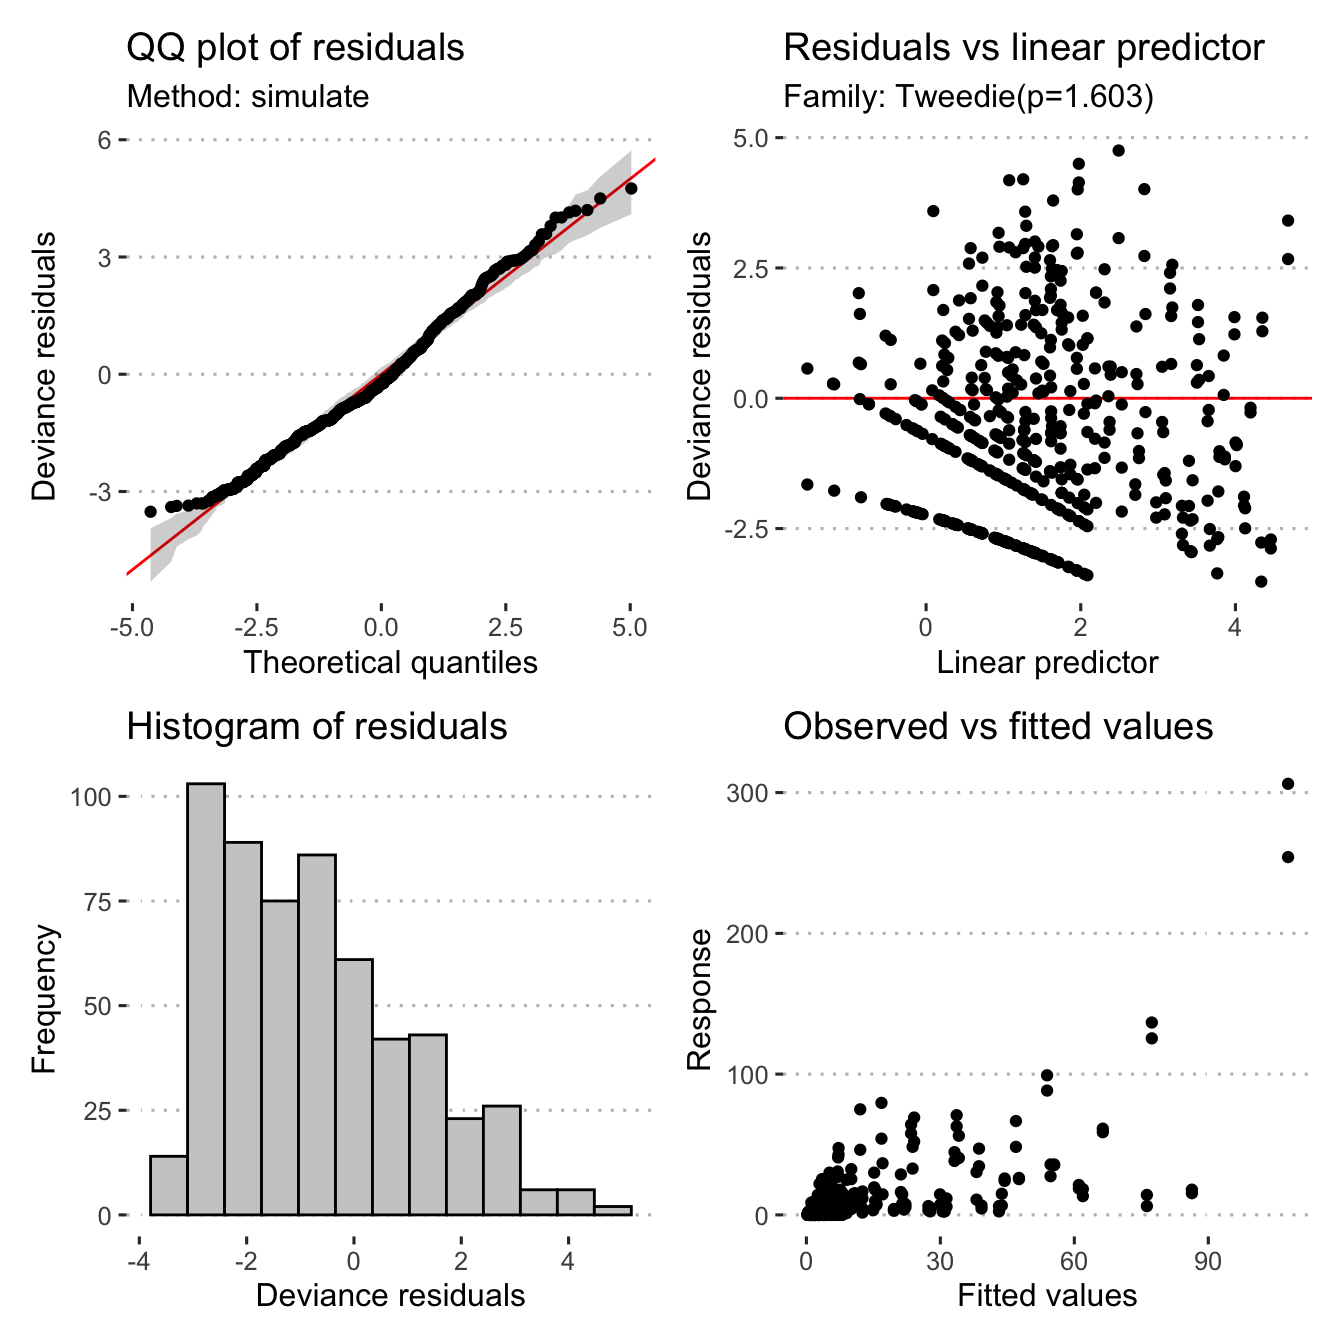
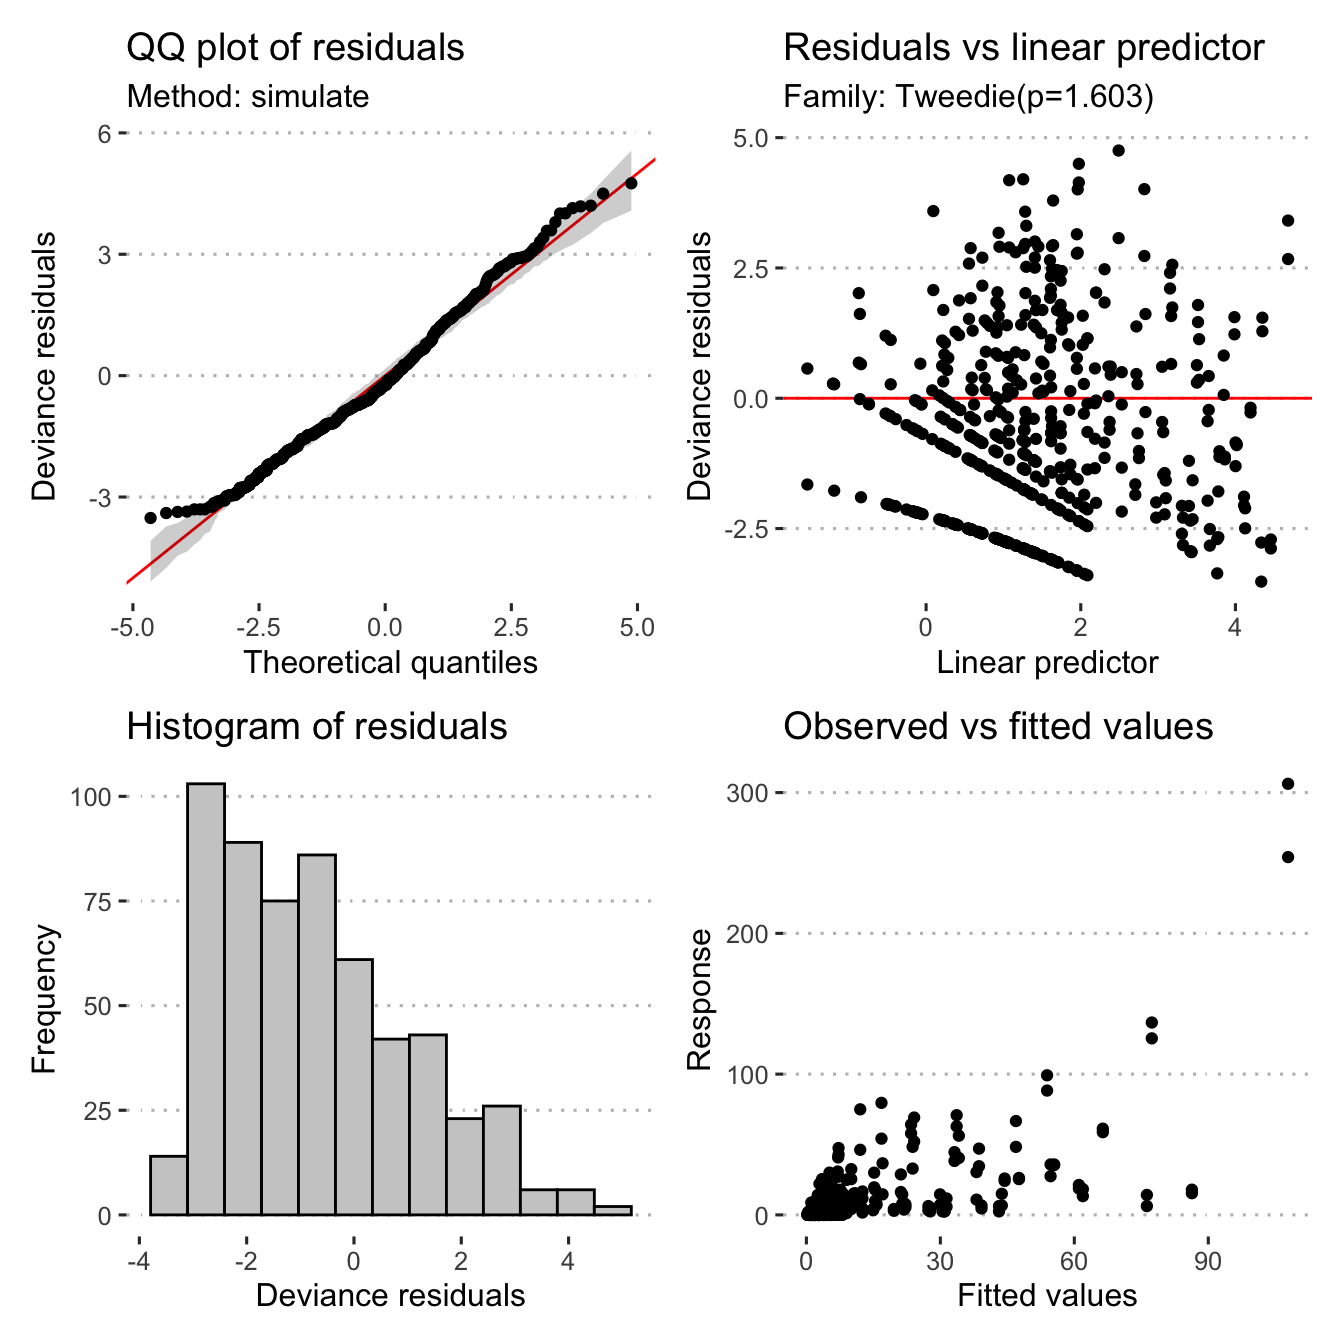
Clean up modelling section, add another to test

diff --git a/model.html b/model.html
@@ -554,15 +554,15 @@ m4</code></pre>
 ## 
 ## REML score: 1549.849</code></pre>
 </div>
-<div id="model-4.1" class="section level3">
-<h3>Model 4.1</h3>
+<div id="model-5" class="section level3">
+<h3>Model 5</h3>
 <ul>
 <li>Response: <code>spore_cm2</code></li>
 <li>Linear predictors: <code>time_min</code>, <code>downwind</code>, <code>wind_speed</code></li>
 <li>Smoothed predictors: <code>distance_m</code></li>
 <li>Random effects: <code>field</code>, <code>time_min</code></li>
 </ul>
-<pre class="r"><code>m4.1 &lt;- gam(
+<pre class="r"><code>m5 &lt;- gam(
   spore_cm2 ~ time_min + downwind + wind_speed +
     s(distance_m, k = 3) +
     s(time_min, bs = &quot;re&quot;) +
@@ -571,7 +571,7 @@ m4</code></pre>
   data = mod_dat,
   family = &quot;tw&quot;
 )
-m4.1</code></pre>
+m5</code></pre>
 <pre><code>## 
 ## Family: Tweedie(p=1.604) 
 ## Link function: log 
@@ -585,23 +585,22 @@ m4.1</code></pre>
 ## 
 ## REML score: 1549.849</code></pre>
 </div>
-<div id="model-5" class="section level3">
-<h3>Model 5</h3>
+<div id="model-6" class="section level3">
+<h3>Model 6</h3>
 <ul>
 <li>Response: <code>spore_cm2</code></li>
 <li>Linear predictors: <code>time_min</code>, <code>downwind</code></li>
 <li>Smoothed predictors: <code>distance_m</code></li>
 <li>Random effects: <code>field</code></li>
 </ul>
-<pre class="r"><code>m5 &lt;- gam(
-  spore_cm2 ~ time_min + downwind +
-    s(distance_m, k = 3) +
+<pre class="r"><code>m6 &lt;- gam(
+  spore_cm2 ~ time_min + downwind + s(distance_m, k = 3) +
     s(field, bs = &quot;re&quot;),
   method = &quot;REML&quot;,
   data = mod_dat,
   family = &quot;tw&quot;
 )
-m5</code></pre>
+m6</code></pre>
 <pre><code>## 
 ## Family: Tweedie(p=1.603) 
 ## Link function: log 
@@ -615,20 +614,20 @@ m5</code></pre>
 ## 
 ## REML score: 1548.587</code></pre>
 </div>
-<div id="model-6" class="section level3">
-<h3>Model 6</h3>
+<div id="model-7" class="section level3">
+<h3>Model 7</h3>
 <ul>
 <li>Response: <code>spore_cm2</code></li>
 <li>Linear predictors: <code>time_min</code>, <code>distance_m</code>, <code>downwind</code></li>
 <li>Random effects: <code>field</code></li>
 </ul>
-<pre class="r"><code>m6 &lt;- gam(
+<pre class="r"><code>m7 &lt;- gam(
   spore_cm2 ~ time_min + distance_m + downwind + s(field, bs = &quot;re&quot;),
   method = &quot;REML&quot;,
   data = mod_dat,
   family = &quot;tw&quot;
 )
-m6</code></pre>
+m7</code></pre>
 <pre><code>## 
 ## Family: Tweedie(p=1.603) 
 ## Link function: log 
@@ -641,15 +640,15 @@ m6</code></pre>
 ## 
 ## REML score: 1553.303</code></pre>
 </div>
-<div id="model-7" class="section level3">
-<h3>Model 7</h3>
+<div id="model-8" class="section level3">
+<h3>Model 8</h3>
 <ul>
 <li>Response: <code>spore_cm2</code></li>
-<li>Linear predictors: <code>time_min</code>, <code>distance_m</code>, <code>downwind</code>, <code>wind_speed</code>, <code>rel_hum</code>, <code>temp</code>, <code>wind_speed</code>, <code>smut_incidence</code></li>
-<li>Smoothed predictors: <code>distance_m</code></li>
-<li>Random effects: <code>field</code>, <code>time_min</code></li>
+<li>Linear predictors: <code>time_min</code>, <code>distance_m</code>, <code>downwind</code></li>
+<li>Smoothed predictors: <code>wind_speed</code></li>
+<li>Random effects: <code>field</code></li>
 </ul>
-<pre class="r"><code>m7 &lt;- gam(
+<pre class="r"><code>m8 &lt;- gam(
   spore_cm2 ~ distance_m + downwind + time_min +
     s(wind_speed, k = 6) +
     s(field, bs = &quot;re&quot;),
@@ -657,7 +656,7 @@ m6</code></pre>
   data = mod_dat,
   family = &quot;tw&quot;
 )
-m7</code></pre>
+m8</code></pre>
 <pre><code>## 
 ## Family: Tweedie(p=1.605) 
 ## Link function: log 
@@ -671,6 +670,36 @@ m7</code></pre>
 ## 
 ## REML score: 1552.389</code></pre>
 </div>
+<div id="model-9" class="section level3">
+<h3>Model 9</h3>
+<ul>
+<li>Response: <code>spore_cm2</code></li>
+<li>Linear predictors: <code>time_min</code>, <code>distance_m</code>, <code>downwind</code>, <code>smut_incidence</code></li>
+<li>Smoothed predictors: <code>wind_speed</code></li>
+<li>Random effects: <code>field</code></li>
+</ul>
+<pre class="r"><code>m9 &lt;- gam(
+  spore_cm2 ~ distance_m + downwind + time_min + `smut_incidence` +
+    s(wind_speed, k = 6) +
+    s(field, bs = &quot;re&quot;),
+  method = &quot;REML&quot;,
+  data = mod_dat,
+  family = &quot;tw&quot;
+)
+m9</code></pre>
+<pre><code>## 
+## Family: Tweedie(p=1.605) 
+## Link function: log 
+## 
+## Formula:
+## spore_cm2 ~ distance_m + downwind + time_min + smut_incidence + 
+##     s(wind_speed, k = 6) + s(field, bs = &quot;re&quot;)
+## 
+## Estimated degrees of freedom:
+## 1.00 2.35  total = 9.35 
+## 
+## REML score: 1553.366</code></pre>
+</div>
 </div>
 <div id="model-aic" class="section level2">
 <h2>Model AIC</h2>
@@ -680,31 +709,33 @@ m7</code></pre>
   m2 = m2,
   m3 = m3,
   m4 = m4,
-  m4.1 = m4.1,
   m5 = m5,
   m6 = m6,
-  m7 = m7
+  m7 = m7,
+  m8 = m8,
+  m9 = m9
 )
 map_df(models, glance, .id = &quot;model&quot;) %&gt;%
   arrange(AIC)</code></pre>
-<pre><code>## # A tibble: 8 × 8
+<pre><code>## # A tibble: 9 × 8
 ##   model    df logLik   AIC   BIC deviance df.residual  nobs
 ##   &lt;chr&gt; &lt;dbl&gt;  &lt;dbl&gt; &lt;dbl&gt; &lt;dbl&gt;    &lt;dbl&gt;       &lt;dbl&gt; &lt;int&gt;
-## 1 m6     9.59 -1528. 3079. 3130.    2097.        566.   576
-## 2 m5     9.59 -1528. 3079. 3131.    2097.        566.   576
-## 3 m4     9.46 -1528. 3079. 3131.    2097.        567.   576
-## 4 m4.1   9.46 -1528. 3079. 3131.    2097.        567.   576
-## 5 m7     9.41 -1528. 3079. 3131.    2097.        567.   576
-## 6 m2     8.62 -1562. 3147. 3194.    2295.        567.   576
-## 7 m3     8.62 -1562. 3147. 3194.    2295.        567.   576
-## 8 m1     6.72 -1699. 3416. 3455.    3265.        569.   576</code></pre>
-<p>Based on the AIC, model m6 looks to be the best model for our data.</p>
+## 1 m7     9.59 -1528. 3079. 3130.    2097.        566.   576
+## 2 m6     9.59 -1528. 3079. 3131.    2097.        566.   576
+## 3 m9     9.35 -1528. 3079. 3131.    2097.        567.   576
+## 4 m4     9.46 -1528. 3079. 3131.    2097.        567.   576
+## 5 m5     9.46 -1528. 3079. 3131.    2097.        567.   576
+## 6 m8     9.41 -1528. 3079. 3131.    2097.        567.   576
+## 7 m2     8.62 -1562. 3147. 3194.    2295.        567.   576
+## 8 m3     8.62 -1562. 3147. 3194.    2295.        567.   576
+## 9 m1     6.72 -1699. 3416. 3455.    3265.        569.   576</code></pre>
+<p>Based on the AIC and BIC values, model m7 looks to be the best model for our data.</p>
 </div>
-<div id="inspect-model-m6" class="section level2">
-<h2>Inspect model m6</h2>
-<pre class="r"><code>appraise(m6)</code></pre>
-<p><img src="model_files/figure-html/summarise-m6-1.png" width="672" /></p>
-<pre class="r"><code>summary(m6)</code></pre>
+<div id="inspect-model-m7" class="section level2">
+<h2>Inspect model m7</h2>
+<pre class="r"><code>appraise(m7)</code></pre>
+<p><img src="model_files/figure-html/summarise-m7-1.png" width="672" /></p>
+<pre class="r"><code>summary(m7)</code></pre>
 <pre><code>## 
 ## Family: Tweedie(p=1.603) 
 ## Link function: log 
@@ -730,7 +761,7 @@ map_df(models, glance, .id = &quot;model&quot;) %&gt;%
 ## 
 ## R-sq.(adj) =  0.446   Deviance explained = 48.2%
 ## -REML = 1553.3  Scale est. = 3.0105    n = 576</code></pre>
-<pre class="r"><code>draw(m6)</code></pre>
+<pre class="r"><code>draw(m7)</code></pre>
 <p><img src="model_files/figure-html/visualise-gam-1.png" width="672" /></p>
 </div>
 <div id="predict-spore-dispersal" class="section level2">
@@ -745,7 +776,7 @@ map_df(models, glance, .id = &quot;model&quot;) %&gt;%
   wind_speed = 0:30,
   field = 5
 )
-newd$pred_spore_cm2 &lt;- predict(m6, newd)</code></pre>
+newd$pred_spore_cm2 &lt;- predict(m7, newd)</code></pre>
 </div>
 <div id="visualise-spore-dispersal-predictions" class="section level2">
 <h2>Visualise spore dispersal predictions</h2>
